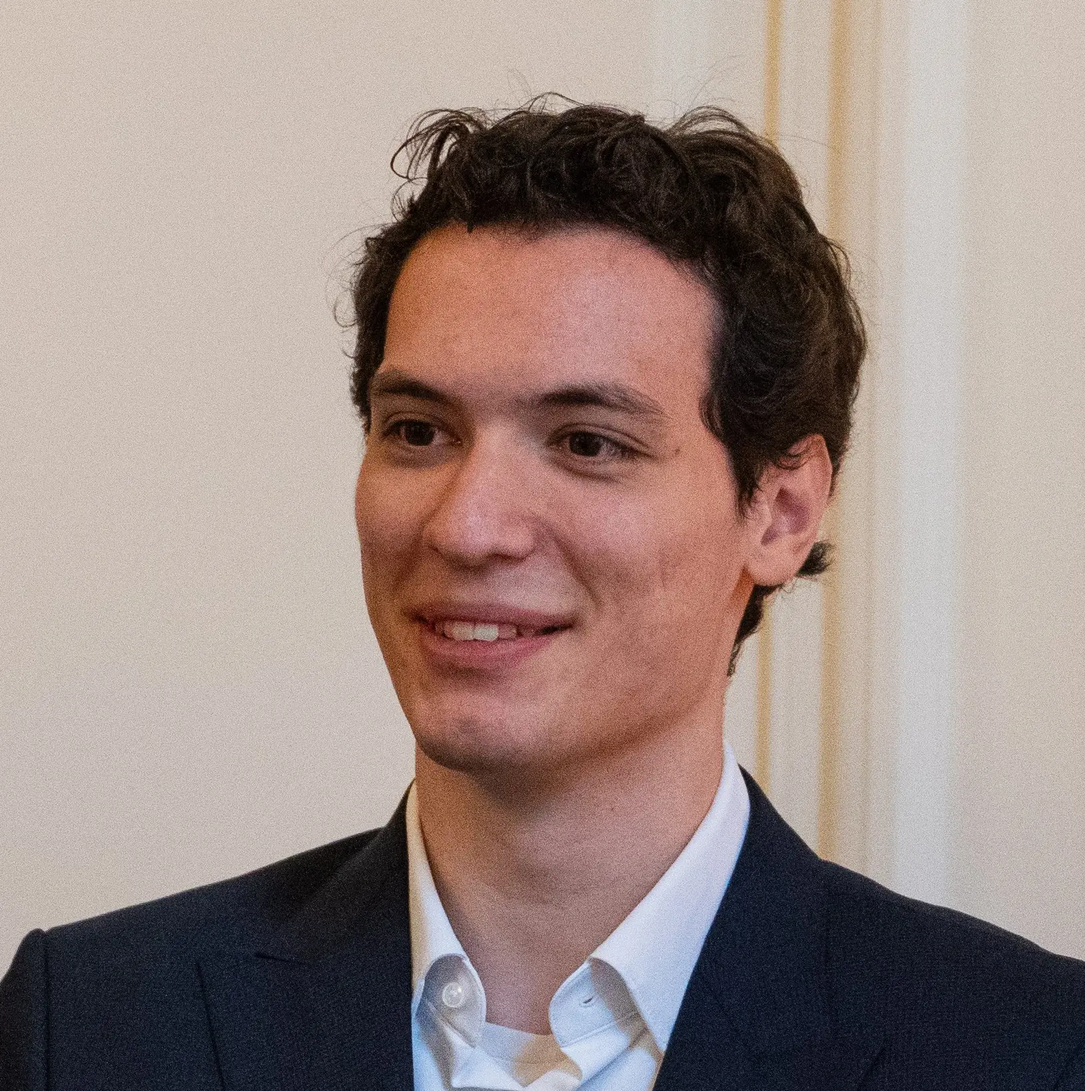
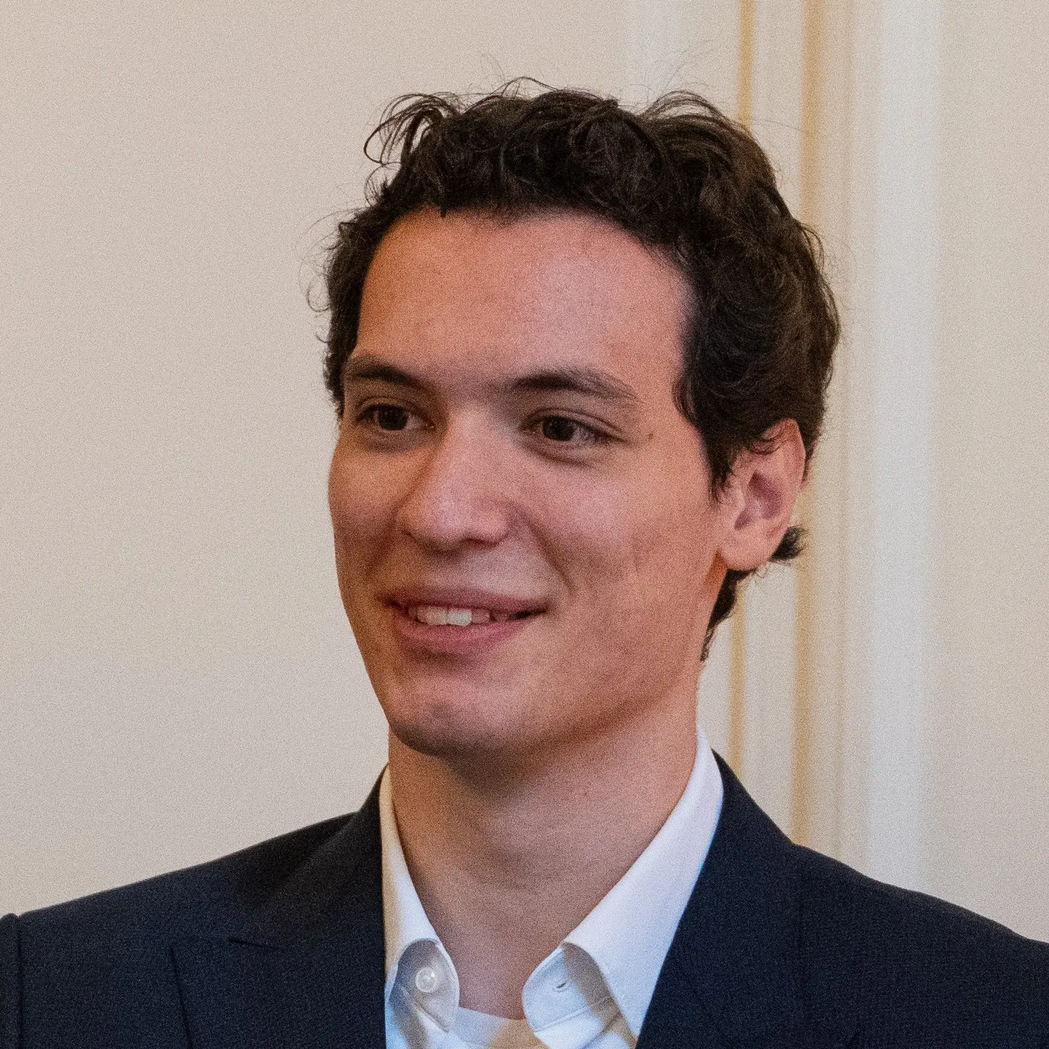
change picture + description

diff --git a/index.html b/index.html
@@ -135,7 +135,7 @@
         <h1 role="heading">Noé Giglio</h1>
 
         <!-- Short Bio -->
-        <p>Investor and Growth in the web3 industry since 2019.<br>Chief of Staff at TheBigWhale, Managing Partner at White Loop Capital and Straylight.</p>
+        <p>Investor and Growth in the web3 industry since 2019.<br>Chief of Staff at TheBigWhale, Managing Partner at Straylight and White Loop Capital.</p>
 
         <!--
 
